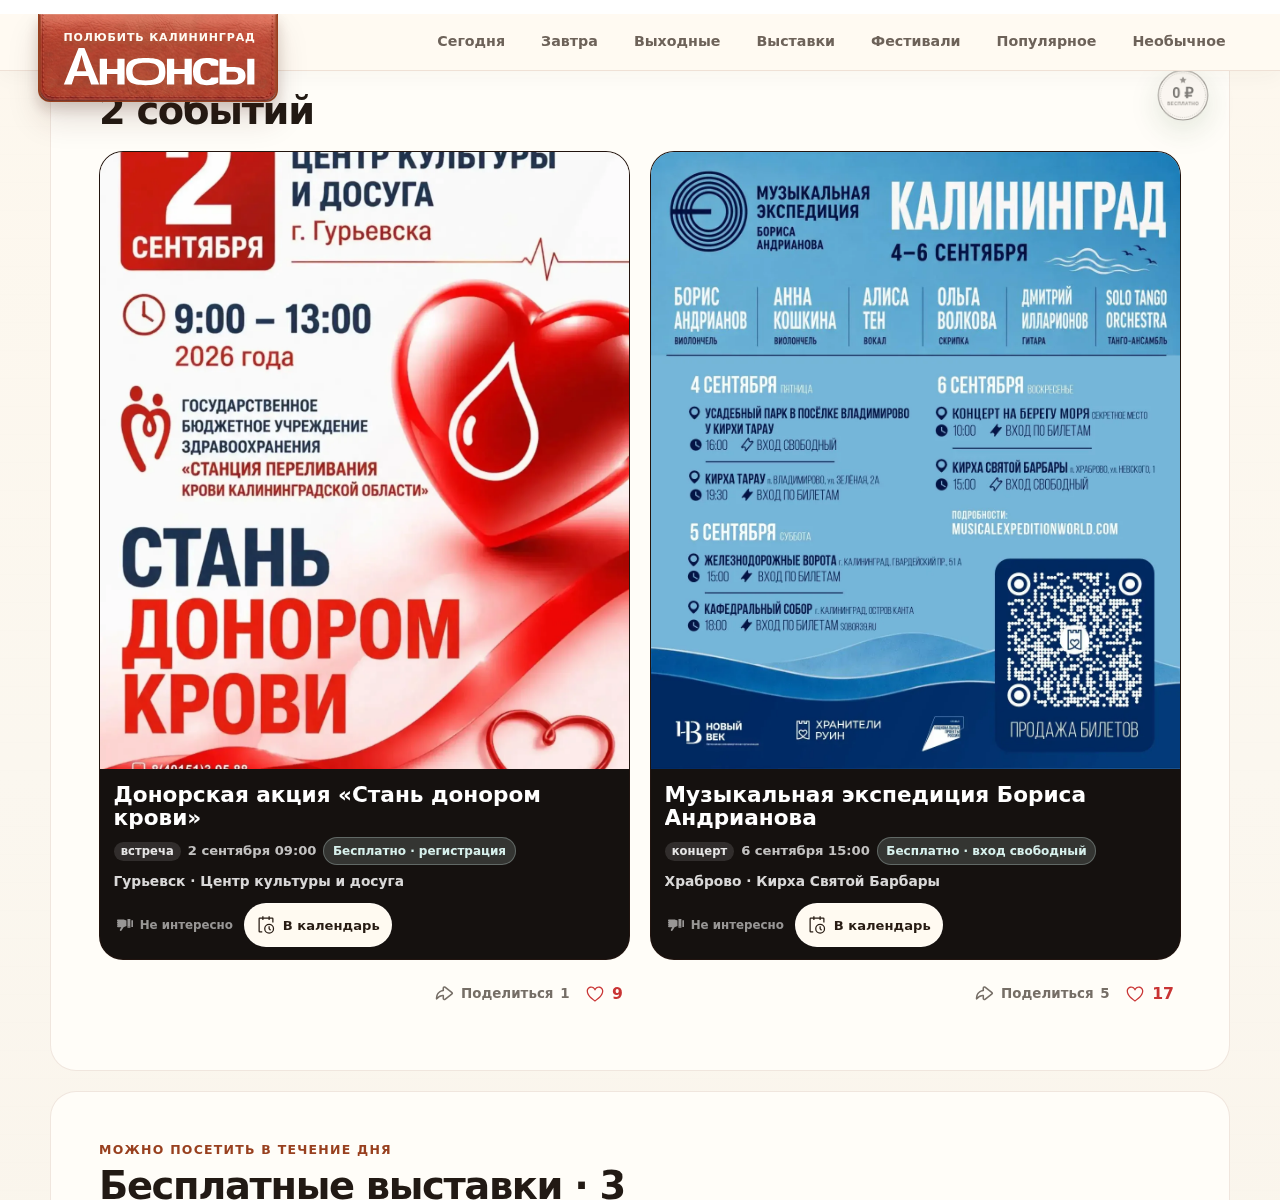
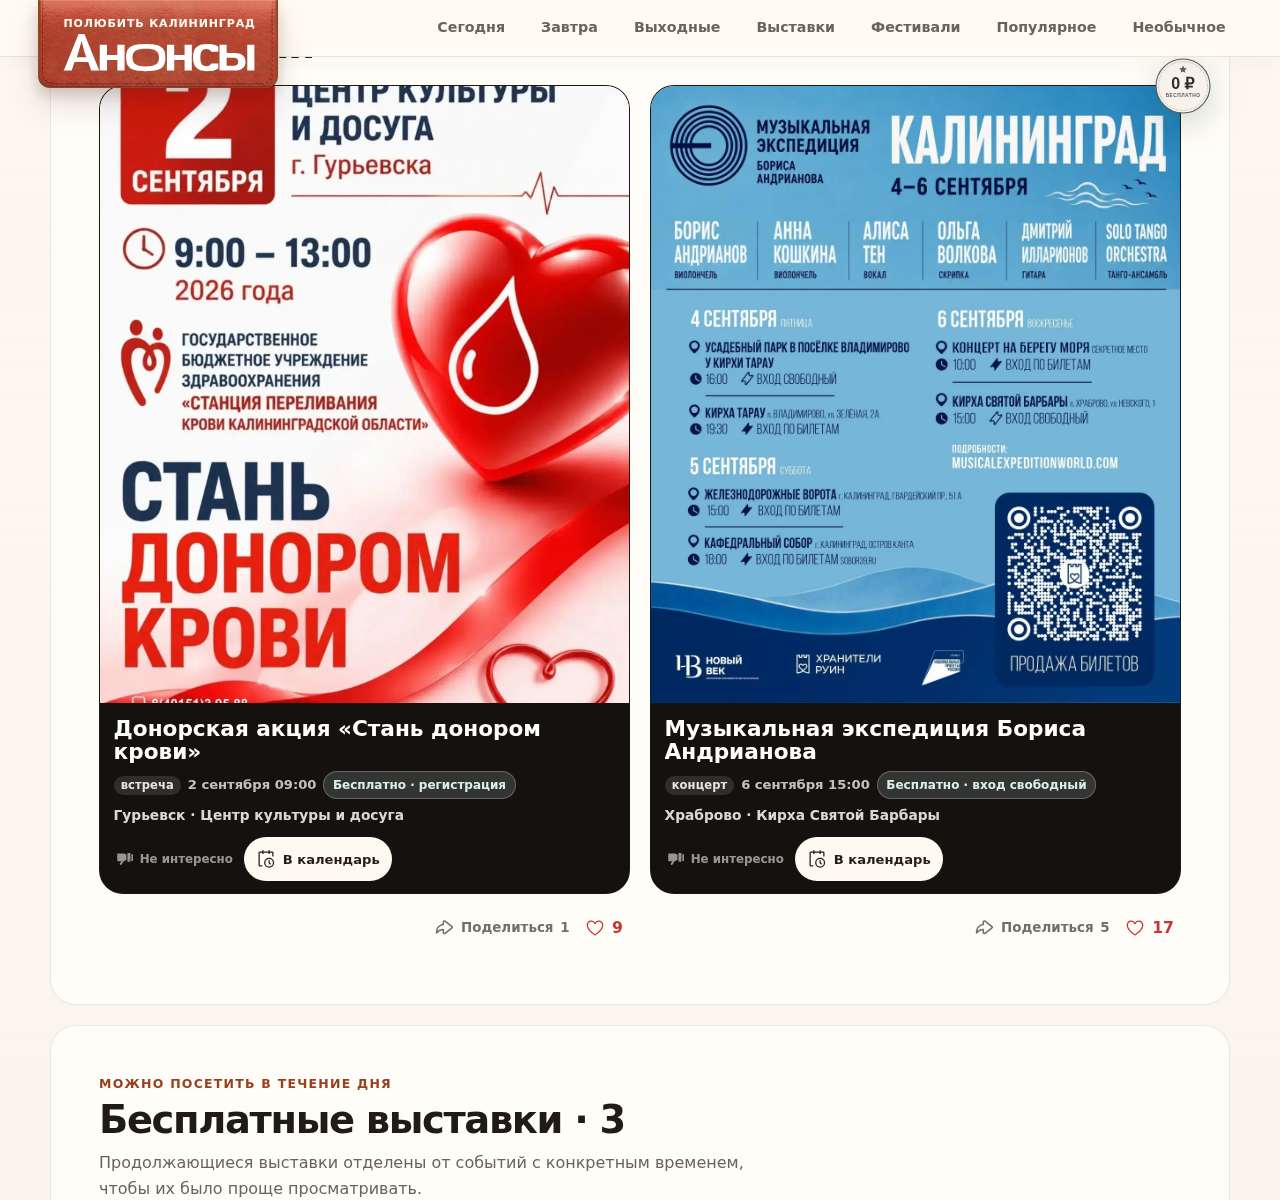
fix(review): order free collection comparisons and refresh images

diff --git a/scripts/round-trip-reconstruction/penpot-materialize-free-collection-september-v2.js b/scripts/round-trip-reconstruction/penpot-materialize-free-collection-september-v2.js
@@ -27,6 +27,14 @@ const UNIFIED_CARD_NAMES = {
 };
 const SCENARIO_ID = 'free-collection-september-desktop-v2';
 const MEDALLION_URL = 'https://raw.githubusercontent.com/onedayonemasterpiece/events-bot-new/49c351873d40a2ea55f0a32837c7376e344d9c17/site/public/assets/badges/free-listing-medallion.svg';
+const ASTRO_CAPTURE_COMMIT = '6faddb367d200f50dee0e5ac9fe7be47f657d0ae';
+const ASTRO_CAPTURE_BASE = `https://raw.githubusercontent.com/onedayonemasterpiece/events-bot-new/${ASTRO_CAPTURE_COMMIT}/site/evidence/recovery-20260829/free-collection-september-v2/`;
+const REVIEW_IDS = {
+  start:'8f804431-c282-8075-8008-8ebd9996f4ee', desktopPenpotLabel:'8f804431-c282-8075-8008-8edf13ba14db', desktopAstroLabel:'8f804431-c282-8075-8008-8eddc0bd9beb',
+  mobilePenpotLabel:'8f804431-c282-8075-8008-8edf14aeb8ee', mobileAstroLabel:'8f804431-c282-8075-8008-8eddc135e80d', desktopPenpot:'8f804431-c282-8075-8008-8edee54844c7',
+  desktopAstro:'8f804431-c282-8075-8008-8edd7c3fa9e9', mobilePenpot:'8f804431-c282-8075-8008-8edefc9d5adb', mobileAstro:'8f804431-c282-8075-8008-8edd9aa2dd3e',
+  serviceLabel:'8f804431-c282-8075-8008-8ebd9a03b406', indexLabel:'8f804431-c282-8075-8008-8ebd9a771456', looseStateLabel:'8f804431-c282-8075-8008-8dd1e403c2c6',
+};
 
 const EVENTS = {
   8006: { title:'Донорская акция «Стань донором крови»', type:'встреча', occurrence:'2 сентября 09:00', price:'Бесплатно · регистрация', place:'Гурьевск · Центр культуры и досуга', image:'https://static.kenigevents.ru/p/image/v2/dd/dd8834258d4a1ebde029aca1960bdd224bdf636d3fd8aee8fc7824012475de8b.webp', shares:1, likes:9, group:'events' },
@@ -268,8 +276,40 @@ function installFreeSeptemberV2(penpot, penpotUtils, storage) {
     return receipts;
   }
 
+  function organizeReviewCanvas() {
+    assertContext();
+    const shape=(id)=>penpot.currentPage.getShapeById(id),xy=(id,x,y)=>{const s=shape(id);if(s)penpotUtils.setParentXY(s,x,y);return s;};
+    const debris=shape(REVIEW_IDS.looseStateLabel);if(debris)debris.remove();
+    const start=xy(REVIEW_IDS.start,0,-70);if(start){start.characters='START HERE — Бесплатные события · Penpot ↔ Astro · Golden Corpus v2';start.resize(2640,34);}
+    const labels=[
+      [REVIEW_IDS.desktopPenpotLabel,'01 · DESKTOP — PENPOT NATIVE',0,0,600],
+      [REVIEW_IDS.desktopAstroLabel,'01 · DESKTOP — ASTRO REAL · 5/5 IMAGES DECODED',1360,0,900],
+      [REVIEW_IDS.mobilePenpotLabel,'02 · MOBILE — PENPOT NATIVE',0,3450,420],
+      [REVIEW_IDS.mobileAstroLabel,'02 · MOBILE — ASTRO REAL · 5/5 IMAGES DECODED',470,3450,720],
+    ];
+    for(const [id,value,x,y,w] of labels){const s=xy(id,x,y);if(s){s.characters=value;s.resize(w,22);}}
+    for(const [id,x,y] of [[REVIEW_IDS.desktopPenpot,0,40],[REVIEW_IDS.desktopAstro,1360,40],[REVIEW_IDS.mobilePenpot,0,3490],[REVIEW_IDS.mobileAstro,470,3490]])xy(id,x,y);
+    const service=xy(REVIEW_IDS.serviceLabel,0,7930);if(service){service.characters='SERVICE ZONE — component masters · not for visual comparison';service.resize(3500,34);}
+    const index=xy(REVIEW_IDS.indexLabel,3800,7930);if(index){index.characters='COLLECTION INDEX COMPONENTS';index.resize(1600,34);}
+    const servicePositions=[
+      ['8f804431-c282-8075-8008-8eb283abd71d',0,8000],['8f804431-c282-8075-8008-8eb29f91944e',1360,8000],['8f804431-c282-8075-8008-8eb2b700335b',1830,8000],['8f804431-c282-8075-8008-8eb2d06b7731',3190,8000],
+      ['8f804431-c282-8075-8008-8eb21ceebbd5',0,12400],['8f804431-c282-8075-8008-8eb2541bc1cd',1240,12400],['8f804431-c282-8075-8008-8ed76045a127',0,16750],['8f804431-c282-8075-8008-8ed777e913cc',1240,16750],['8f804431-c282-8075-8008-8eb744466930',0,16900],
+      ['d87e18f1-dcb4-80a6-8008-8861ec69432f',3800,8000],['d87e18f1-dcb4-80a6-8008-8861edd339c0',3800,8285],['d87e18f1-dcb4-80a6-8008-8861ee7d5d3f',4204,8285],['d87e18f1-dcb4-80a6-8008-8861ef5e2569',4608,8285],['d87e18f1-dcb4-80a6-8008-8861ed24373c',3800,8475],['d87e18f1-dcb4-80a6-8008-8861f027cb06',3800,8749],['d87e18f1-dcb4-80a6-8008-8861f0f35f01',4186,8749],['d87e18f1-dcb4-80a6-8008-8861f1b38272',4572,8749],['d87e18f1-dcb4-80a6-8008-886280aa46b0',3800,8950],
+    ];
+    for(const item of servicePositions)xy(...item);
+    return {desktopPair:[REVIEW_IDS.desktopPenpot,REVIEW_IDS.desktopAstro],mobilePair:[REVIEW_IDS.mobilePenpot,REVIEW_IDS.mobileAstro],serviceStartY:7930};
+  }
+
+  async function refreshComparisonScreenshots() {
+    assertContext();const desktop=penpot.currentPage.getShapeById(REVIEW_IDS.desktopAstro),mobile=penpot.currentPage.getShapeById(REVIEW_IDS.mobileAstro);if(!desktop||!mobile)throw new Error('comparison screenshot boards missing');
+    const [desktopMedia,mobileMedia]=await Promise.all([penpot.uploadMediaUrl(`Astro free collection desktop · decoded 5 of 5 · ${ASTRO_CAPTURE_COMMIT.slice(0,9)}`,`${ASTRO_CAPTURE_BASE}astro-desktop-full.png`),penpot.uploadMediaUrl(`Astro free collection mobile · decoded 5 of 5 · ${ASTRO_CAPTURE_COMMIT.slice(0,9)}`,`${ASTRO_CAPTURE_BASE}astro-mobile-full.png`)]);
+    desktop.fills=[{fillImage:desktopMedia,fillOpacity:1}];mobile.fills=[{fillImage:mobileMedia,fillOpacity:1}];
+    for(const s of [desktop,mobile]){s.setPluginData('astro-source-commit',ASTRO_CAPTURE_COMMIT);s.setPluginData('all-card-images-decoded','true');}
+    return {desktop:{shapeId:desktop.id,mediaId:desktopMedia.id,width:desktopMedia.width,height:desktopMedia.height},mobile:{shapeId:mobile.id,mediaId:mobileMedia.id,width:mobileMedia.width,height:mobileMedia.height}};
+  }
+
   async function repairExactParity() {
-    assertContext();const block=penpot.history.undoBlockBegin();try{const hero=['desktop','mobile'].map(repairHeroExact);const sections=['desktop','mobile'].map(repairSectionsExact);const cards=bindBodyCardsToUnified();const footerShare=repairFooterShareExact();const owners=repairOwnersExact();return {hero,sections,cards,footerShare,owners,validation:await penpot.currentFile.validate()};}finally{penpot.history.undoBlockFinish(block);}
+    assertContext();const block=penpot.history.undoBlockBegin();try{const hero=['desktop','mobile'].map(repairHeroExact);const sections=['desktop','mobile'].map(repairSectionsExact);const cards=bindBodyCardsToUnified();const footerShare=repairFooterShareExact();const owners=repairOwnersExact();const reviewCanvas=organizeReviewCanvas();return {hero,sections,cards,footerShare,owners,reviewCanvas,validation:await penpot.currentFile.validate()};}finally{penpot.history.undoBlockFinish(block);}
   }
 
   async function repairAll() { const bodies=['desktop','mobile'].map(repairBody);const owners=['desktop','mobile'].flatMap((v)=>['full','scrolled'].map((s)=>repairOwner(v,s)));return {bodies,owners,footerShare:ensureFooterShare().id,validation:await penpot.currentFile.validate()}; }
@@ -278,7 +318,7 @@ function installFreeSeptemberV2(penpot, penpotUtils, storage) {
     assertContext();const cards=['desktop','mobile'].flatMap((viewport)=>ORDER.map((id)=>{const body=componentByIdentity(BODY_PATH,`viewport=${viewport};fixture=2026-09-01;scenario=${SCENARIO_ID}`),slot=body?byName(body.mainInstance(),new RegExp(`^linked EventCard / event\\.real\\.${id} /`)):null;return {id,viewport,componentId:slot?.component?.()?.id||null,slotId:slot?.id||null,fixture:slot?.getPluginData?.('fixture-id')||null};}));const owners=['desktop','mobile'].flatMap((viewport)=>['full','scrolled'].map((state)=>{const c=componentByIdentity(OWNER_PATH,`viewport=${viewport};state=${state};scenario=${SCENARIO_ID}`);return {viewport,state,componentId:c?.id||null,mainId:c?.mainInstance()?.id||null};}));return {scenario:SCENARIO_ID,order:ORDER,cards,owners,validation:await penpot.currentFile.validate()};
   }
 
-  storage.freeSeptemberV2={ensureBody,ensureOwner,repairBody,repairOwner,repairAll,repairHeroExact,repairSectionsExact,bindBodyCardToUnified,bindBodyCardsToUnified,repairFooterShareExact,repairOwnersExact,repairExactParity,readback,constants:{FILE_ID,PAGE_ID,BODY_PATH,OWNER_PATH,UNIFIED_CARD_PATH,UNIFIED_CARD_NAMES,SCENARIO_ID,ORDER}};
+  storage.freeSeptemberV2={ensureBody,ensureOwner,repairBody,repairOwner,repairAll,repairHeroExact,repairSectionsExact,bindBodyCardToUnified,bindBodyCardsToUnified,repairFooterShareExact,repairOwnersExact,organizeReviewCanvas,refreshComparisonScreenshots,repairExactParity,readback,constants:{FILE_ID,PAGE_ID,BODY_PATH,OWNER_PATH,UNIFIED_CARD_PATH,UNIFIED_CARD_NAMES,SCENARIO_ID,ORDER,ASTRO_CAPTURE_COMMIT,REVIEW_IDS}};
   return {installed:true,methods:Object.keys(storage.freeSeptemberV2),scenario:SCENARIO_ID,order:ORDER};
 }
 

diff --git a/docs/ui-reference-fixture-registry.md b/docs/ui-reference-fixture-registry.md
@@ -114,13 +114,17 @@ structure. Its `repairAll` path is intentionally limited to these
 redraw card anatomy locally.
 
 The current drift-closure receipt is
-[`evidence/recovery-20260829/free-collection-september-v2-three-way-proof.v3.json`](../evidence/recovery-20260829/free-collection-september-v2-three-way-proof.v3.json).
+[`evidence/recovery-20260829/free-collection-september-v2-three-way-proof.v4.json`](../evidence/recovery-20260829/free-collection-september-v2-three-way-proof.v4.json).
 It records the live central-component ancestry, all ten collection slots, exact
 fixture order, Astro inspection evidence, cleanup and the Penpot validation
-result. Product review remains `NOT_REVIEWED`. The Penpot PNG exporter returned
-HTTP 504 after the final centralization, so v3 deliberately reports structural
-and geometric closure but does not promote that failed export to a fresh
-pixel-diff pass.
+result. The Astro capture now scrolls through the document, requires all five
+lazy card images to have `naturalWidth > 0`, and awaits `decode()` before any
+proof screenshot. Page `63.08` starts with exactly two review pairs: desktop
+Penpot ↔ Astro, then mobile Penpot ↔ Astro; component masters begin below the
+explicit service-zone label at `y=7930`. Product review remains `NOT_REVIEWED`.
+Three bounded Penpot export attempts (full board, 340×604 component and raw
+image-fill mode) returned HTTP 504, so v4 records the repeated exporter blocker
+instead of promoting it to a pixel-diff pass.
 
 Page `63.08 — Atlas · Collections` was then cleaned in place. The cleanup
 receipt is
